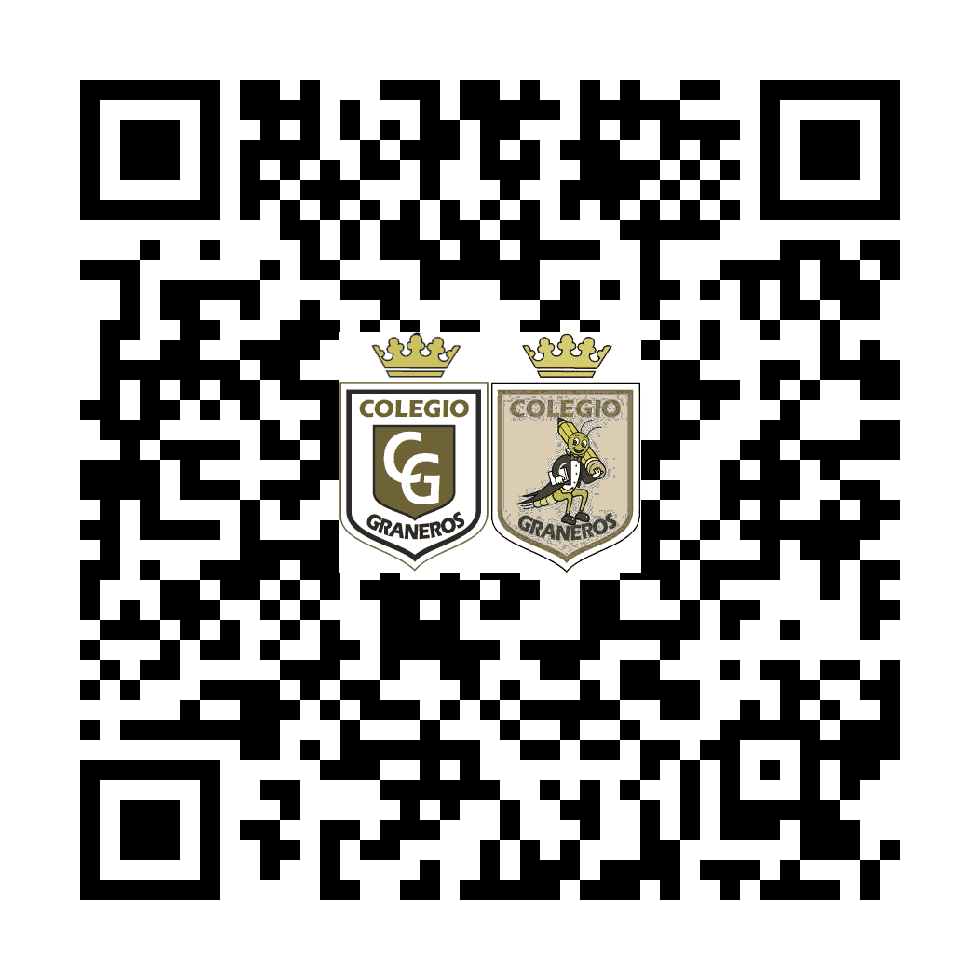
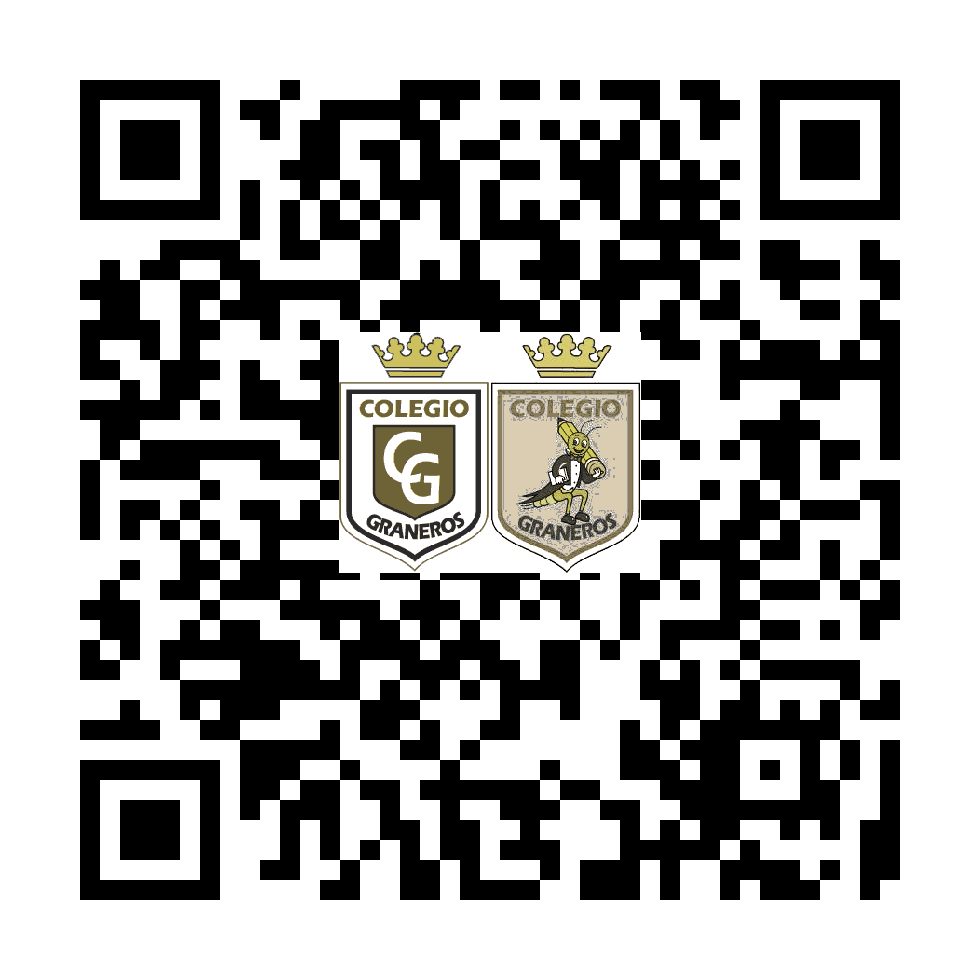
avance prototipo version 2.0

Changed region(s): [[0.0612, 0.0612, 0.9184, 0.9184]]

diff --git a/revisar.php b/revisar.php
@@ -32,6 +32,7 @@ if (isset($_GET['id']) && isset($_GET['tipo'])) {
   if (is_numeric($_GET['id'])) {
     $id = $_GET['id'];
     $rest = $c->verificarPermiso($id);
+    $foto="";
     if ($rest==false) {
         $nom = $c->buscardatos($id);
         $nom .= "<br/> No tiene permiso Habilitado";
@@ -42,6 +43,7 @@ if (isset($_GET['id']) && isset($_GET['tipo'])) {
         </div>";
     }else if($rest["estado"]==1){
         $nom = $c->buscardatos($id);
+        $foto = $rest["foto"];
         $nom .= "<br/>Tiene permiso Habilitado";
         $texto = "<div class='alert alert-success' role='alert'>
         "
@@ -87,7 +89,7 @@ if (isset($_GET['id']) && isset($_GET['tipo'])) {
                 
                 <div class="row justify-content-center">
                     <div class="col-lg-6 col-md-12 d-flex justify-content-center">
-                      <img src="https://colegiograneros.cl/img/logo/'.$rest["foto"].'.png" width="200" alt="">  
+                      <img src="https://colegiograneros.cl/uploads/fotos/permisos/'.$foto.'.png" width="200" alt="">  
                     </div>
                 </div> 
                 

diff --git a/perfil.php b/perfil.php
@@ -19,7 +19,7 @@ if ($_SESSION['id']) {
       $tamanio = 10;
       $level = 'M';
       $frameSize = 3;
-      $contenido = "https://colegiograneros.cl/permiso/revisar.php?id=".$id;
+      $contenido = "https://colegiograneros.cl/API/validarJunaeb.php?id=".$id;
 
     // Ruta donde se guardarán las imágenes
     $filepath = 'temp/myimage.png';

diff --git a/controller.php b/controller.php
@@ -12,7 +12,7 @@ class Controller{
     /*Variables BD Remota */
      private $user = 'colegi38_informatica';
      private $pass = 'informatica2022';
-     private $db = 'colegi38_gestionescolar';
+     private $db = 'colegi38_gestionescolar'; 
     public $mi;
 
     /*Conection Method */
